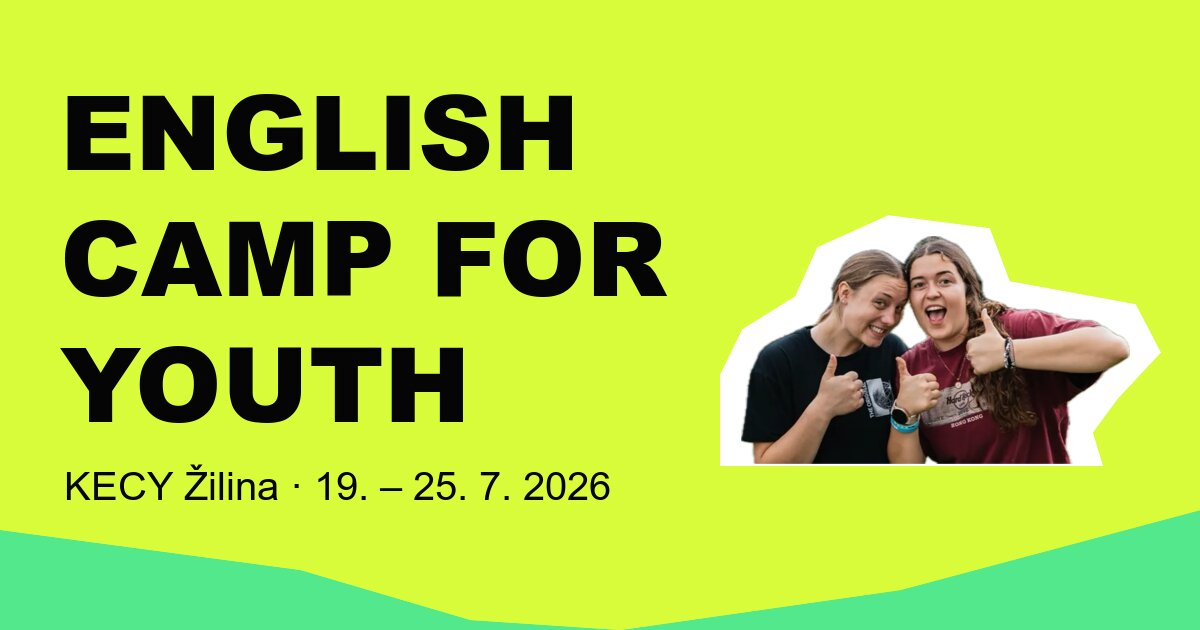
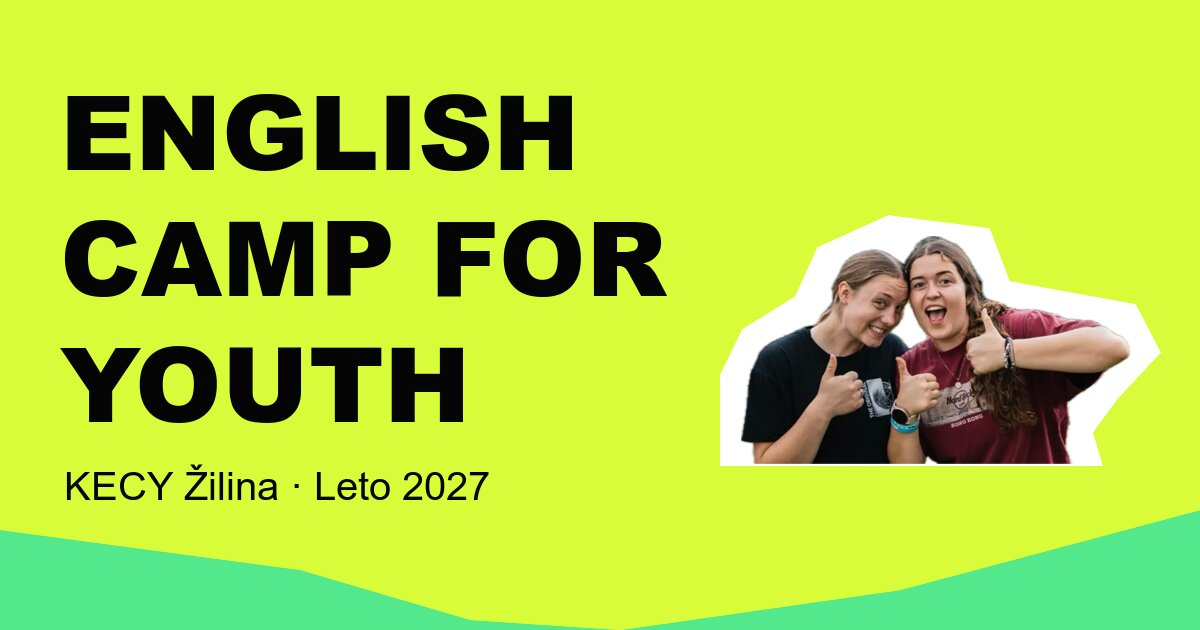
Leto 2027, profesor z Figmy, podpisy v citátoch a textové úpravy
- Všetky dátumy → „Leto 2027“ (hero, title, meta, OG obrázok, štruktúrované dáta, manifest)
- Chalan s marshmallow na tyčke podľa Figma Component 10 ako jeden obrázok
- Come to KECY: “It actually is fun!” neónovou žltou so stroke, mená ako ručný podpis
- Program: „noc“ tmavosivá s čiernym tieňom ako ostatné
- Lightbox bez viditeľného popisu fotky (alt ostáva)
- Textové úpravy od Adriána

Changed region(s): [[0.2467, 0.7238, 0.5242, 0.8143]]

diff --git a/src/index.html b/src/index.html
@@ -4,10 +4,10 @@
     <meta charset="utf-8" />
     <meta name="viewport" content="width=device-width, initial-scale=1, viewport-fit=cover" />
 
-    <title>KECY Žilina 2026 – anglický tábor pre mládež | 19. – 25. 7. 2026</title>
+    <title>KECY Žilina 2027 – anglický tábor pre mládež | Leto 2027</title>
     <meta
       name="description"
-      content="KECY Žilina 2026: anglicko-konverzačný tábor pre ôsmakov, deviatakov a stredoškolákov s Američanmi. English alebo Sports track, 19. – 25. 7. 2026, ubytovanie v horách, už od 199 €."
+      content="KECY Žilina 2027: anglicko-konverzačný tábor pre ôsmakov, deviatakov a stredoškolákov s Američanmi. English alebo Sports track, leto 2027, ubytovanie v horách, už od 199 €."
     />
     <link rel="canonical" href="%SITE_URL%/" />
     <meta name="robots" content="index, follow, max-image-preview:large" />
@@ -18,16 +18,16 @@
     <meta property="og:type" content="website" />
     <meta property="og:locale" content="sk_SK" />
     <meta property="og:site_name" content="KECY Žilina" />
-    <meta property="og:title" content="KECY Žilina 2026 – English camp for youth" />
+    <meta property="og:title" content="KECY Žilina 2027 – English camp for youth" />
     <meta
       property="og:description"
-      content="Týždeň angličtiny s Američanmi, športu, nových priateľstiev a hĺbky. 19. – 25. 7. 2026, už od 199 €."
+      content="Týždeň angličtiny s Američanmi, športu, nových priateľstiev a hĺbky. Leto 2027, už od 199 €."
     />
     <meta property="og:url" content="%SITE_URL%/" />
     <meta property="og:image" content="%SITE_URL%/assets/img/og-image.jpg" />
     <meta property="og:image:width" content="1200" />
     <meta property="og:image:height" content="630" />
-    <meta property="og:image:alt" content="KECY Žilina 2026 – English camp for youth, 19. – 25. 7. 2026" />
+    <meta property="og:image:alt" content="KECY Žilina 2027 – English camp for youth, leto 2027" />
     <meta name="twitter:card" content="summary_large_image" />
 
     <link rel="icon" href="/favicon.svg" type="image/svg+xml" />
@@ -44,10 +44,9 @@
       {
         "@context": "https://schema.org",
         "@type": "Event",
-        "name": "KECY Žilina 2026 – anglicko-konverzačný tábor",
+        "name": "KECY Žilina 2027 – anglicko-konverzačný tábor",
         "description": "Anglicko-konverzačný tábor pre ôsmakov, deviatakov a stredoškolákov, organizovaný mladými kresťanmi zo Žiliny. Hodiny angličtiny s Američanmi alebo tréning amerických športov, aktivity, zábava aj hĺbka.",
-        "startDate": "2026-07-19",
-        "endDate": "2026-07-25",
+        "startDate": "2027-07",
         "eventStatus": "https://schema.org/EventScheduled",
         "eventAttendanceMode": "https://schema.org/OfflineEventAttendanceMode",
         "inLanguage": ["sk", "en"],
@@ -95,13 +94,13 @@
       <header class="relative bg-lime">
         <div class="shell pt-[5.6875rem] lg:grid lg:grid-cols-[1.1fr_1fr] lg:items-end lg:gap-x-12 lg:pt-16 lg:pb-12">
           <p class="text-center text-xl md:text-2xl lg:col-start-1 lg:text-left">
-            <time datetime="2026-07-19">19.</time> – <time datetime="2026-07-25">25. 7. 2026</time>
+            <time datetime="2027">Leto 2027</time>
           </p>
 
           <!-- veľkosť chlapíka je v em → drží pomer k nadpisu na každom rozlíšení -->
           <div class="relative mt-9 w-fit font-display text-[clamp(3.25rem,16vw,4.25rem)] md:mt-12 md:text-[6.5rem] lg:col-start-1 lg:mt-8 lg:text-[clamp(5.5rem,8.4vw,8.5rem)]">
             <h1 class="leading-[0.92] font-extrabold tracking-[-0.02em] uppercase md:whitespace-nowrap">
-              <span class="sr-only">KECY Žilina 2026 – </span>English <br />camp for <br />youth
+              <span class="sr-only">KECY Žilina 2027 – </span>English <br />camp for <br />youth
             </h1>
             <img
               src="/assets/img/hero-guy.webp"
@@ -172,7 +171,7 @@
             Američania prídu na&nbsp;týždeň na Slovensko, aby ti priniesli skutočnú
             <a href="#english-track" class="underline">konverzačnú angličtinu</a>. Hodiny angličtiny, ale iné ako v&nbsp;škole, alebo
             <a href="#sports-track" class="underline">tréning športov</a> v&nbsp;angličtine – je na&nbsp;tebe, čo si vyberieš. Okrem toho
-            si užiješ veeeľa aktivít, zábavy, ale aj rozhovorov a&nbsp;hĺbky.
+            si užiješ veeeľa aktivít a zábavy, ale aj rozhovorov a&nbsp;hĺbky.
           </p>
 
           <div>
@@ -233,7 +232,7 @@
             <div class="card-copy">
             <p class="text-xl leading-[1.2] md:text-2xl lg:text-[1.75rem]">
               Vďaka zábavným aktivitám a&nbsp;<span class="underline decoration-[1.5px] underline-offset-[0.18em]">rozhovorom s&nbsp;Američanmi</span> sa budeš môcť
-              zdokonaľovať v&nbsp;hovorovej angličtine jednoduchým, no zato efektívnym spôsobom. Z&nbsp;English tracku si okrem amerického prízvuku
+              zdokonaľovať v&nbsp;hovorovej angličtine jednoduchým, no za to efektívnym spôsobom. Z&nbsp;English tracku si okrem amerického prízvuku
               odnesieš aj americké sladkosti.
             </p>
             <div>
@@ -303,8 +302,8 @@
             <ol class="program-list">
               <li><span class="program-list__time">ráno</span><span>raňajky a&nbsp;spoločný štart</span></li>
               <li><span class="program-list__time">dopoludnie</span><span>English alebo Sports track s&nbsp;Američanmi</span></li>
-              <li><span class="program-list__time">poobede</span><span>teambuilding, súťaže, tvorivé dielne, šport</span></li>
-              <li><span class="program-list__time">večer</span><span>zábava aj hĺbka, príbehy a&nbsp;rozhovory o&nbsp;Bohu</span></li>
+              <li><span class="program-list__time">poobede</span><span>teambuilding, súťaže, crafts alebo US sports</span></li>
+              <li><span class="program-list__time">večer</span><span>zábava aj hĺbka, príbehy a&nbsp;rozhovory o&nbsp;živote a&nbsp;o&nbsp;Bohu</span></li>
               <li><span class="program-list__time">noc</span><span>oheň, kapelka, diskotéka či… nechaj sa prekvapiť</span></li>
             </ol>
           </section>
@@ -318,7 +317,7 @@
               “Come to KECY” <br />they said
             </h2>
             <p class="mt-4 font-display text-xl leading-[1.05] font-extrabold uppercase md:text-2xl lg:mt-8 lg:text-4xl xl:text-5xl">
-              <span class="text-pink [-webkit-text-stroke:1.5px_var(--color-ink)] [paint-order:stroke_fill]">“It actually is fun!”</span><br />they said
+              <span class="text-lime [-webkit-text-stroke:3px_var(--color-ink)] [paint-order:stroke_fill] [text-shadow:3px_3px_0_var(--color-ink)]">“It actually is fun!”</span><br />they said
             </p>
           </div>
 
@@ -418,20 +417,20 @@
                     <p lang="en"><span aria-hidden="true">🇺🇸 </span>Every KECY camp I’ve been to has been a beautiful experience. I’ve met new people and made new friends, and by the end of camp these friends truly do become family. It’s a place where you will feel welcomed, seen and heard right from the beginning.</p>
                     <p class="mt-6 italic"><span aria-hidden="true" class="not-italic">🇸🇰 </span>Každý tábor KECY, na ktorom som bola, bol krásnym zážitkom. Spoznala som nových ľudí a&nbsp;našla si nových priateľov – a&nbsp;na konci tábora sa z&nbsp;týchto priateľov naozaj stane rodina. Je to miesto, kde sa od samého začiatku budete cítiť vítaní, videní a&nbsp;vypočutí.</p>
                   </blockquote>
-                  <p class="mt-6">– Jaylin</p>
+                  <p class="quote-author">Jaylin</p>
                 </div>
                 <div id="quote-riso" role="tabpanel" aria-labelledby="tab-riso" class="quote-panel" tabindex="0" hidden>
                   <blockquote>
                     <p>Keďže nie som takmer vôbec extrovert, tak som týždeň predtým ľutoval, že som sa na KECY prihlásil.</p>
                     <p class="mt-6">Našťastie som na ne išiel aj napriek môjmu strachu a&nbsp;naozaj toho neľutujem. Už na začiatku som zistil, že kolektív ľudí, ktorí chodia na KECY, je výnimočný. Cítil som sa ľuďmi prijatý a&nbsp;hlavne som sa cítil sám sebou.</p>
                   </blockquote>
-                  <p class="mt-6">– Rišo</p>
+                  <p class="quote-author">Rišo</p>
                 </div>
                 <div id="quote-sarka" role="tabpanel" aria-labelledby="tab-sarka" class="quote-panel" tabindex="0" hidden>
                   <blockquote>
                     <p>Už v&nbsp;prvý deň som vedela, že prihlásiť sa bolo jedno z&nbsp;mojich najlepších rozhodnutí. Spoznala som nových ľudí a&nbsp;sčasti aj samú seba.</p>
                   </blockquote>
-                  <p class="mt-6">– Šárka</p>
+                  <p class="quote-author">Šárka</p>
                 </div>
               </div>
             </div>
@@ -535,22 +534,15 @@
               <a href="%REGISTER_URL%" class="btn-brutal">Registrácia</a>
             </div>
 
-            <!-- „Profesor“ pred tlačidlom: marshmallow sedí presne na konci tyčky z fotky
-                 (tyčka vo fotke ide 0.3237 px doprava na 1 px hore a vychádza z pravého horného rohu). -->
-            <div class="pointer-events-none absolute bottom-0 left-0 z-20 h-[150.46px] w-[82px]" aria-hidden="true">
-              <img src="/assets/img/price-guy.webp" alt="" width="328" height="602" loading="lazy" class="size-full rounded-bl-[10px]" />
-              <svg class="absolute top-0 left-0 overflow-visible" width="82" height="1" viewBox="0 0 82 1" focusable="false">
-                <line x1="79.99" y1="6" x2="83.23" y2="-4" stroke="#161616" stroke-width="1" stroke-linecap="round" />
-              </svg>
-              <img
-                src="/assets/img/price-phone.webp"
-                alt=""
-                width="28"
-                height="42"
-                loading="lazy"
-                class="absolute top-[-23.25px] left-[82.98px] h-[21px] w-[14px] max-w-none"
-              />
-            </div>
+            <!-- „Profesor“ s marshmallow na tyčke (Figma: Component 10), stojí pred tlačidlom -->
+            <img
+              src="/assets/img/price-guy-smores.webp"
+              alt=""
+              width="279"
+              height="498"
+              loading="lazy"
+              class="pointer-events-none absolute bottom-0 left-0 z-20 h-[166px] w-[93px] max-w-none rounded-bl-[10px]"
+            />
           </div>
          </div>
         </section>
@@ -648,7 +640,6 @@
       </div>
       <figure class="flex min-h-0 flex-col items-center justify-center px-4" data-lb-stage>
         <img src="" alt="" class="lb-img max-h-full max-w-full border-2 border-white object-contain" data-lb-img />
-        <figcaption class="mt-3 max-w-md text-center text-sm text-white/80" data-lb-caption></figcaption>
       </figure>
       <div class="flex items-center justify-center gap-6 p-6">
         <button type="button" class="lb-btn" data-lb-prev aria-label="Predchádzajúca fotka">

diff --git a/src/css/main.css b/src/css/main.css
@@ -428,9 +428,8 @@
       background: var(--color-blue);
     }
     .program-list > li:nth-child(5) {
-      background: var(--color-ink);
+      background: #1d1d1f;
       color: #fff;
-      box-shadow: 4px 4px 0 0 var(--color-pink);
     }
     .program-list__time {
       width: auto;
@@ -610,6 +609,21 @@
     transition:
       background-color 0.4s ease,
       height 0.4s ease;
+  }
+  /* meno pod citátom ako ručný podpis */
+  .quote-author {
+    margin-top: 1.25rem;
+    font-family: var(--font-hand);
+    font-size: 2.25rem;
+    font-weight: 700;
+    line-height: 1;
+    text-align: right;
+    rotate: -3deg;
+  }
+  @media (width >= 64rem) {
+    .quote-author {
+      font-size: 2.75rem;
+    }
   }
   .quote-panel {
     transition: opacity 0.3s ease;

diff --git a/src/assets/js/main.js b/src/assets/js/main.js
@@ -228,7 +228,6 @@
     if (!dialog || typeof dialog.showModal !== "function") return;
 
     const img = dialog.querySelector("[data-lb-img]");
-    const caption = dialog.querySelector("[data-lb-caption]");
     const counter = dialog.querySelector("[data-lb-counter]");
     let photos = [];
     let current = 0;
@@ -245,7 +244,6 @@
         img.style.opacity = "1";
       };
       pre.src = p.src;
-      caption.textContent = p.alt;
       counter.textContent = `${current + 1} / ${photos.length}`;
     }
 
